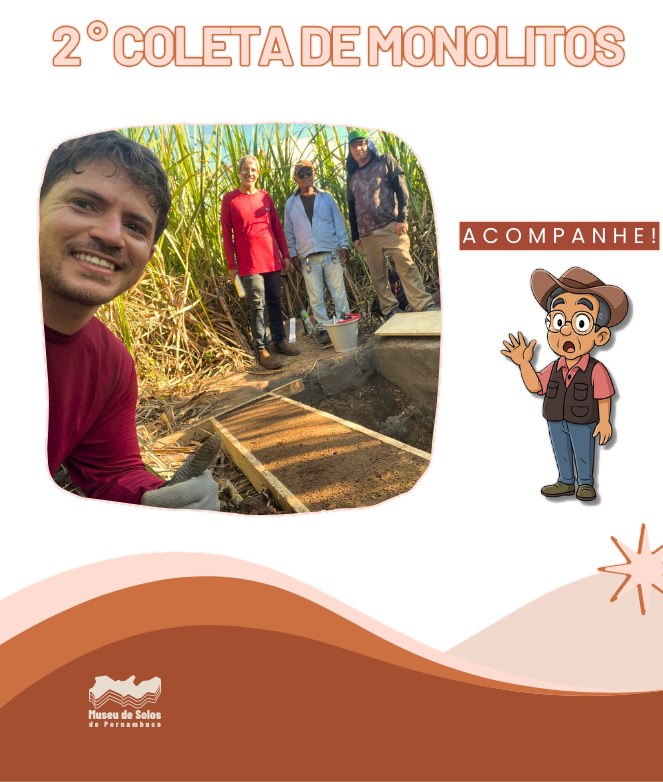
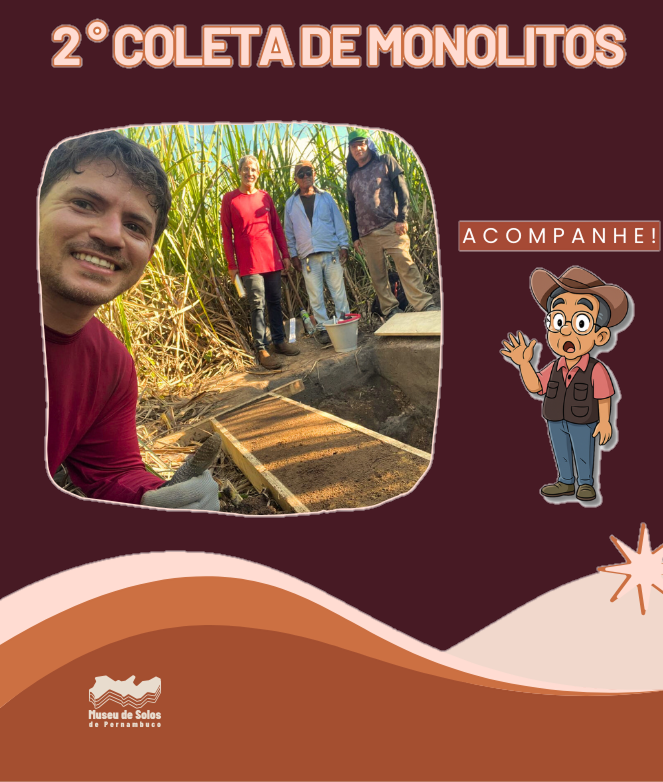
finalizando pagina de noticias

diff --git a/src/pages/Noticias/Noticias.jsx b/src/pages/Noticias/Noticias.jsx
@@ -5,6 +5,18 @@ import Botao from "../../components/Botao";
 import { FaArrowDown } from "react-icons/fa";
 import ContainerNoticia from "../../components/Container-noticia";
 import imgN4 from "/imagens/noticias/n2/3k-imagem.jfif";
+import n1Img1 from "/imagens/noticias/n5/nor4.jpeg";
+import n1Img2 from "/imagens/noticias/n5/nor1.jpeg";
+import n1Img3 from "/imagens/noticias/n5/nor3.jpeg";
+import imgN2 from "/imagens/noticias/n3/coleta-condado.png";
+import n3Img1 from "/imagens/noticias/n4/jogo1.png";
+import n3Img2 from "/imagens/noticias/n4/jogo2.png";
+import n3Img3 from "/imagens/noticias/n4/jogo3.png";
+import n5Img1 from "/imagens/noticias/n1/WhatsApp Image 2025-04-07 at 14.50.17 (1).jpeg";
+import n5Img2 from "/imagens/noticias/n1/WhatsApp Image 2025-04-07 at 14.50.17 (2).jpeg";
+import n5Img3 from "/imagens/noticias/n1/WhatsApp Image 2025-04-07 at 14.50.17.jpeg";
+import n5Img4 from "/imagens/noticias/n1/WhatsApp Image 2025-04-07 at 14.50.18 (1).jpeg";
+import n5Img5 from "/imagens/noticias/n1/WhatsApp Image 2025-04-07 at 14.50.18.jpeg";
 
 export default function Noticias() {
   const scrollToNoticias = () => {
@@ -16,6 +28,15 @@ export default function Noticias() {
       });
     }
   };
+
+  const n1Imagens = [n1Img1, n1Img2, n1Img3];
+  const n3Imagens = [n3Img1, n3Img2, n3Img3];
+  const n3Links = [
+    "https://wordwall.net/play/91771/646/449",
+    "https://wordwall.net/play/89914/615/725",
+    "https://wordwall.net/play/89885/602/883",
+  ];
+  const n5Imagens = [n5Img1, n5Img2, n5Img3, n5Img4, n5Img5];
 
   return (
     <>
@@ -40,9 +61,59 @@ export default function Noticias() {
         id="noticias-section"
         className="bg-brand-dark py-[80px] min-h-[700px]"
       >
-        <ContainerNoticia />
-        <ContainerNoticia />
-        <ContainerNoticia />
+        <ContainerNoticia
+          titulo={
+            "MUSSPE inicia levantamento de pontos de coleta de macromonolitos em Fernando de Noronha"
+          }
+          resumo={
+            "Entre os dias 7 e 9 de maio, os pesquisadores, Dr. Flávio Marques (EMBRAPA-SOLOS), Prof. Dr. Mateus Ribeiro Filho (UFRPE), Profa. Dra. Paula Renata Araújo (UFPE) e Dr. Fernando Bruno da Silva realizaram a primeira visita na ilha de Fernando de Noronha. A visita tem por objetivo identificar os pontos de coleta dos macromonolitos para o MUSSPE. O trabalho está contando com a parceria do ICMBio Fernando de Noronha e CNPq. As próximas visitas ocorrerão ainda no próximo semestre."
+          }
+          data={"27/05/2025"}
+          link={
+            "https://www.instagram.com/museudesolospe/p/DKKPwtsNvqh/?hl=pt-br&img_index=1"
+          }
+          carrossel={true}
+          carrosselImages={n1Imagens}
+          carrosselWidth="w-[90%] sm:w-[350px]"
+          carrosselHeight="h-[90%] sm:h-[470px]"
+          ajusteMt={"md:mt-[-70px]"}
+          ajusteMb={"mb-[-40px]"}
+        />
+        <ContainerNoticia
+          titulo={
+            "Equipe do MUSSPE e da Embrapa realizam coleta e classificação de solos e macromonolito em Condado - PE"
+          }
+          resumo={
+            "Nos dias 9 e 16 de abril, os pesquisadores Dra. Clarissa B. Vieira (UFRPE), Dr. Gabriel Henrique Silva (UFRPE), Dr. Flávio Marques (EMBRAPA-SOLOS) e Prof. Dr. Mateus R. Ribeiro Filho (UFRPE), realizaram a classificação e coletas de amostras de solo e de macromonolito, no município de Condado-PE (Zona da Mata Norte). O solo foi previamente classificado como Argissolo Amarelo com caráter fragipânico, apresentando horizontes superficiais mais arenosos sobrejacentes a horizontes de acúmulo de argila com fragipã a partir de 100 cm de profundidade. Atualmente, na área coletada, o uso da terra é predominantemente o cultivo de cana-de-açúcar."
+          }
+          data={"29/04/2025"}
+          botao="Confira agora"
+          imagem={imgN2}
+          link={
+            "https://www.instagram.com/museudesolospe/reel/DJCMzGjt2vm/?hl=pt-br"
+          }
+          imgWidth="w-[90%] sm:w-[300px]"
+          imgHeight="h-[90%] sm:h-[360px]"
+          ajusteMt={"mt-[40px] md:mt-0"}
+        />
+        <ContainerNoticia
+          titulo={
+            "MUSSPE desenvolve jogos educativos com praticas de conservação do solo"
+          }
+          data={"15/04/2025"}
+          resumo={
+            "No dia 15 de abril, é celebrado o Dia Nacional da Conservação do Solo. Essa data tem como objetivo conscientizar a população da importância de preservar não somente o solo, mas também os ecossistemas e o meio ambiente como um todo. Para comemorar esse dia tão importante, a equipe do MUSSPE desenvolveu 3 jogos educativos envolvendo práticas de conservação do solo para mostrar que cuidar do nosso solo pode e deve ser divertido."
+          }
+          link={
+            "https://www.instagram.com/museudesolospe/p/DIeEQzYOaeQ/?img_index=1"
+          }
+          carrossel={true}
+          carrosselTemLink={true}
+          carrosselImages={n3Imagens}
+          carrosselLinks={n3Links}
+          carrosselWidth="w-[90%] sm:w-[370px]"
+          carrosselHeight="h-[90%] sm:h-[200px]"
+        />
         <ContainerNoticia
           data={"07/04/2025"}
           titulo={
@@ -55,8 +126,23 @@ export default function Noticias() {
           link={
             "https://www.instagram.com/museudesolospe/p/DIKN0Ggyhw8/?hl=pt-br"
           }
+          ajusteMt={"mt-[40px] md:mt-0"}
         />
-        <ContainerNoticia />
+        <ContainerNoticia
+          titulo={
+            "MUSSPE inicia coleta de novos macromonolitos de solos de referência em Pernambuco"
+          }
+          data={"26/03/2025"}
+          resumo={
+            "Nos dias 26 e 27 de março, os então pesquisadores do MUSSPE: Dra. Clarissa Buarque, Dr. Flávio Marques, Dr. Gabriel Henrique, Dr. Luiz Henrique , Prof. Dr. Mateus Rosas, Profa Dra. Paula Renata, iniciaram as coletas dos novos macromonolitos dos solos de referência do estado de Pernambuco. O projeto tem por objetivo renovar macromonolitos do acervo do MUSSPE. A coleta iniciou-se na Zona da Mata Norte do estado, nos municípios de Goiana e Aliança, contando com a parceria do IPA. As microrregiões do agreste e sertão de Pernambuco também serão alvos de coleta, bem como a ilha de Fernando de Noronha, as quais serão realizadas em breve."
+          }
+          link={"https://www.instagram.com/p/DH_-A1myvsj/?img_index=1"}
+          carrossel={true}
+          carrosselImages={n5Imagens}
+          carrosselWidth="w-[90%] sm:w-[270px]"
+          carrosselHeight="h-[90%] sm:h-[350px]"
+          ajusteMt={"mt-[20px] md:mt-[-40px]"}
+        />
       </section>
       <BarraVisita />
     </>

diff --git a/src/components/Container-noticia.jsx b/src/components/Container-noticia.jsx
@@ -1,37 +1,62 @@
 import { FaInstagram, FaFacebook, FaYoutube, FaTiktok } from "react-icons/fa";
 import { Link } from "react-router-dom";
 import Botao from "./Botao";
+import Carrossel from "./Carrossel";
 
 export default function ContainerNoticia({
   data,
   titulo,
   resumo,
   imagem,
+  imgHeight = "h-[350px]",
+  imgWidth = "w-[250px]",
   link,
+  botao = "Saiba mais",
+  carrossel = false,
+  carrosselImages = [],
+  carrosselLinks = [],
+  carrosselWidth = "w-[300px]",
+  carrosselHeight = "h-[300px]",
+  carrosselTemLink = false,
+  ajusteMt,
+  ajusteMb,
 }) {
   return (
-    <div className="bg-brand-roxo min-h-[200px] mx-auto w-[800px] mt-[10px] mb-[30px] rounded-[20px] flex flex-col">
+    <div className="bg-brand-roxo min-h-[200px] mx-auto w-[90%] lg:w-[800px] mt-[10px] mb-[30px] rounded-[20px] flex flex-col">
       <div>
         <span className="font-barlow-italic text-brand-bege float-right p-[20px]">
           {data}
         </span>
-        <h3 className="font-barlow-extrabold text-brand-bege text-[24px] mb-0 w-[400px] p-[20px] text-justify">
+        <h3 className="font-barlow-extrabold text-brand-bege text-[24px] mb-0 p-[20px] text-justify mt-[40px] md:mt-0 mx-auto md:mx-0 w-[90%] md:w-[400px]">
           {titulo}
         </h3>
       </div>
-      <div className="flex">
-        <div className="w-[50%] p-[20px] flex flex-col">
+      <div className="flex flex-col md:flex-row">
+        <div className="order-2 md:order-1 w-full md:w-[50%] p-[20px] flex flex-col">
           <p className="font-barlow text-brand-bege text-[18px] text-justify">
             {resumo}
           </p>
         </div>
-        <div className="flex flex-col items-center p-[20px] w-[50%]">
-          <img
-            className="mt-[-40px] w-[250px] h-[350px] rounded-[10px]"
-            src={imagem}
-            alt={titulo}
-            draggable="false"
-          />
+        <div
+          className={`order-1 md:order-2 flex flex-col items-center p-[20px] w-full md:w-[50%] ${ajusteMt} ${ajusteMb}`}
+        >
+          {carrossel ? (
+            <Carrossel
+              showArrows={false}
+              images={carrosselImages}
+              links={carrosselLinks}
+              width={carrosselWidth}
+              height={carrosselHeight}
+              temLink={carrosselTemLink}
+            />
+          ) : (
+            <img
+              className={`mt-[-40px] ${imgWidth} ${imgHeight} rounded-[10px]`}
+              src={imagem}
+              alt={titulo}
+              draggable="false"
+            />
+          )}
         </div>
       </div>
       <div className="flex flex-col space-y-2 mt-2 items-end pr-4 mb-4">
@@ -71,7 +96,7 @@ export default function ContainerNoticia({
       <div className="mx-auto mt-[-90px] mb-[50px]">
         <Link to={link}>
           <Botao tamanhoFonte="text-[25px]" paddingX="px-[30px]">
-            Saiba mais
+            {botao}
           </Botao>
         </Link>
       </div>

diff --git a/src/components/Carrossel.jsx b/src/components/Carrossel.jsx
@@ -1,10 +1,13 @@
 import React, { useState, useEffect } from "react";
+import { Link } from "react-router-dom";
 
 export default function Carrossel({
   images,
-  width = "300px",
-  height = "300px",
+  width = "w-[300px]",
+  height = "h-[300px]",
   showArrows = true,
+  temLink = false,
+  links = [],
 }) {
   const [currentSlide, setCurrentSlide] = useState(0);
   const [touchStart, setTouchStart] = useState(null);
@@ -97,15 +100,30 @@ export default function Carrossel({
               height: "100%",
             }}
           >
-            {slides.map((src, idx) => (
-              <img
-                key={idx}
-                src={src}
-                alt={`Slide ${idx + 1}`}
-                className="w-full h-full object-cover flex-shrink-0"
-                draggable="false"
-              />
-            ))}
+            {slides.map((src, idx) =>
+              temLink ? (
+                <Link
+                  key={idx}
+                  to={links[idx] || "#"}
+                  className="w-full h-full flex-shrink-0"
+                >
+                  <img
+                    src={src}
+                    alt={`Slide ${idx + 1}`}
+                    className="w-full h-full object-cover"
+                    draggable="false"
+                  />
+                </Link>
+              ) : (
+                <img
+                  key={idx}
+                  src={src}
+                  alt={`Slide ${idx + 1}`}
+                  className="w-full h-full object-cover flex-shrink-0"
+                  draggable="false"
+                />
+              )
+            )}
           </div>
         </div>
 
